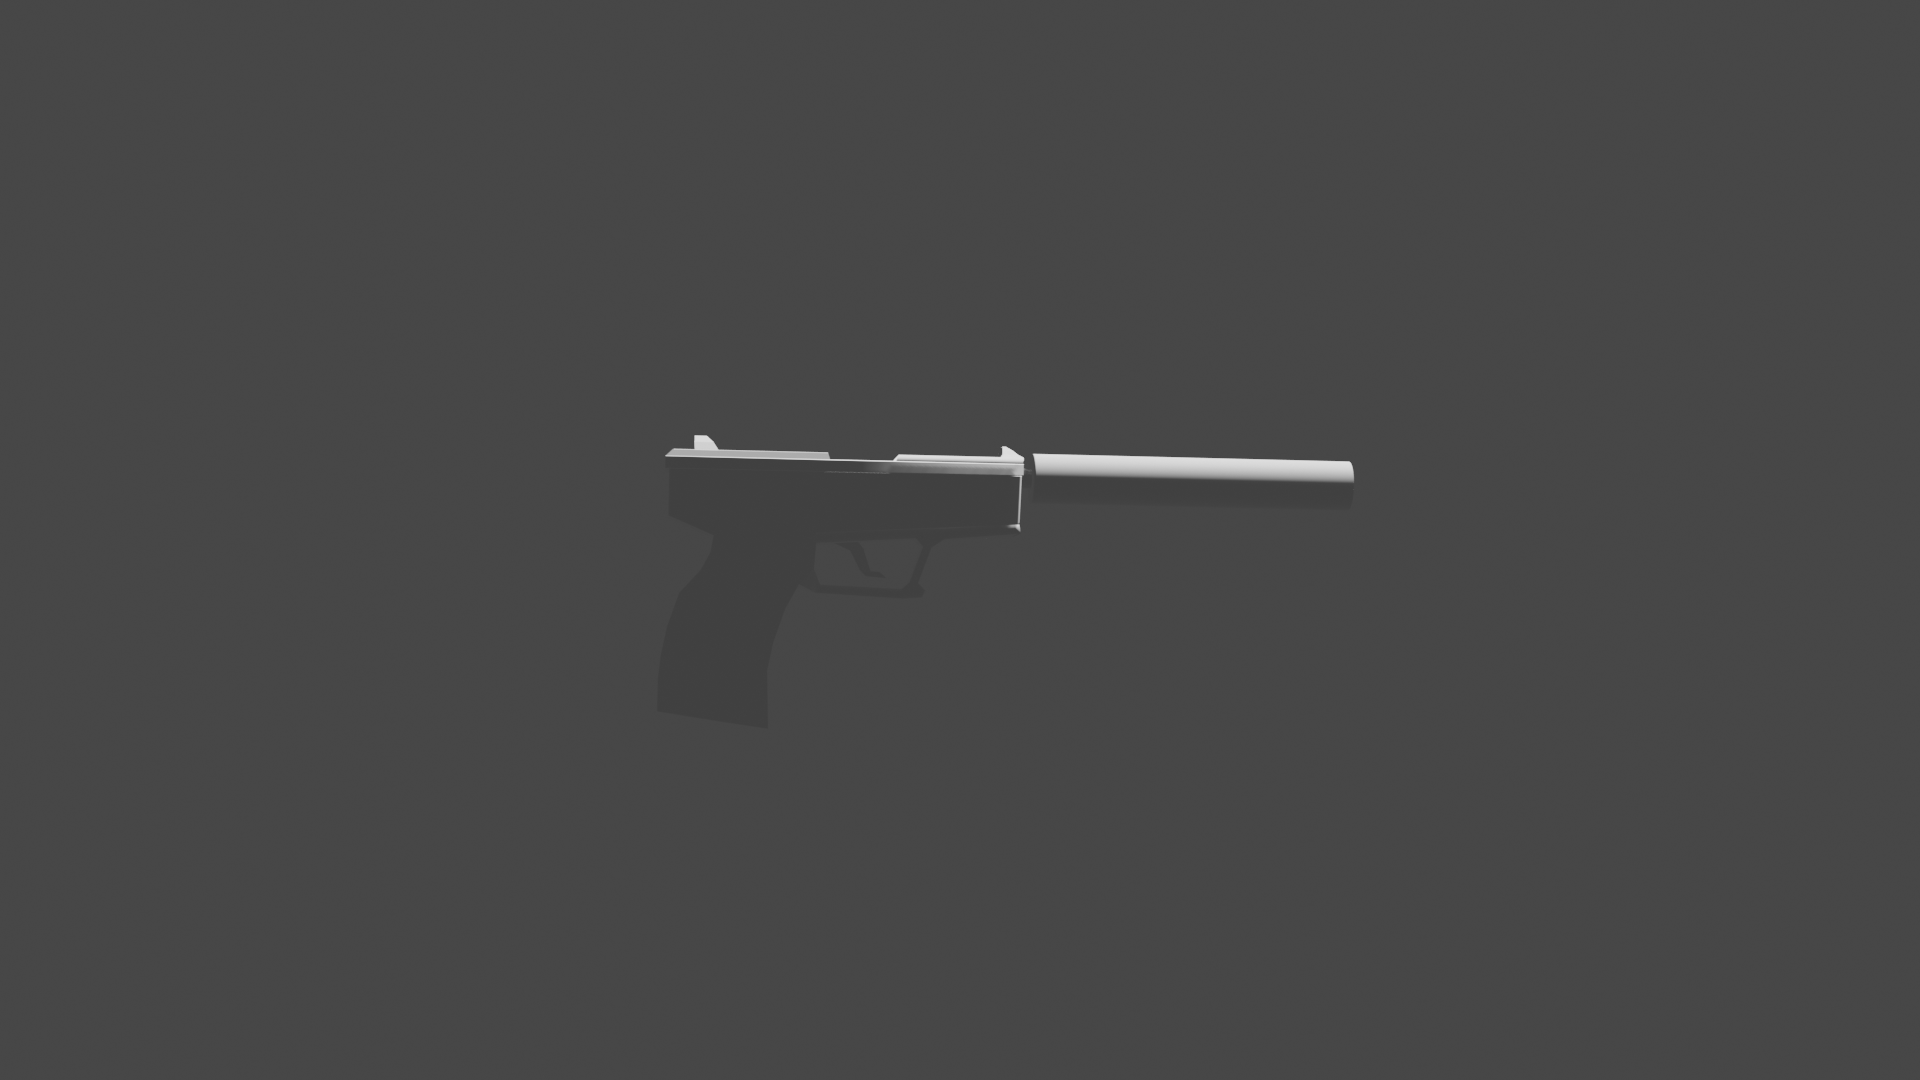
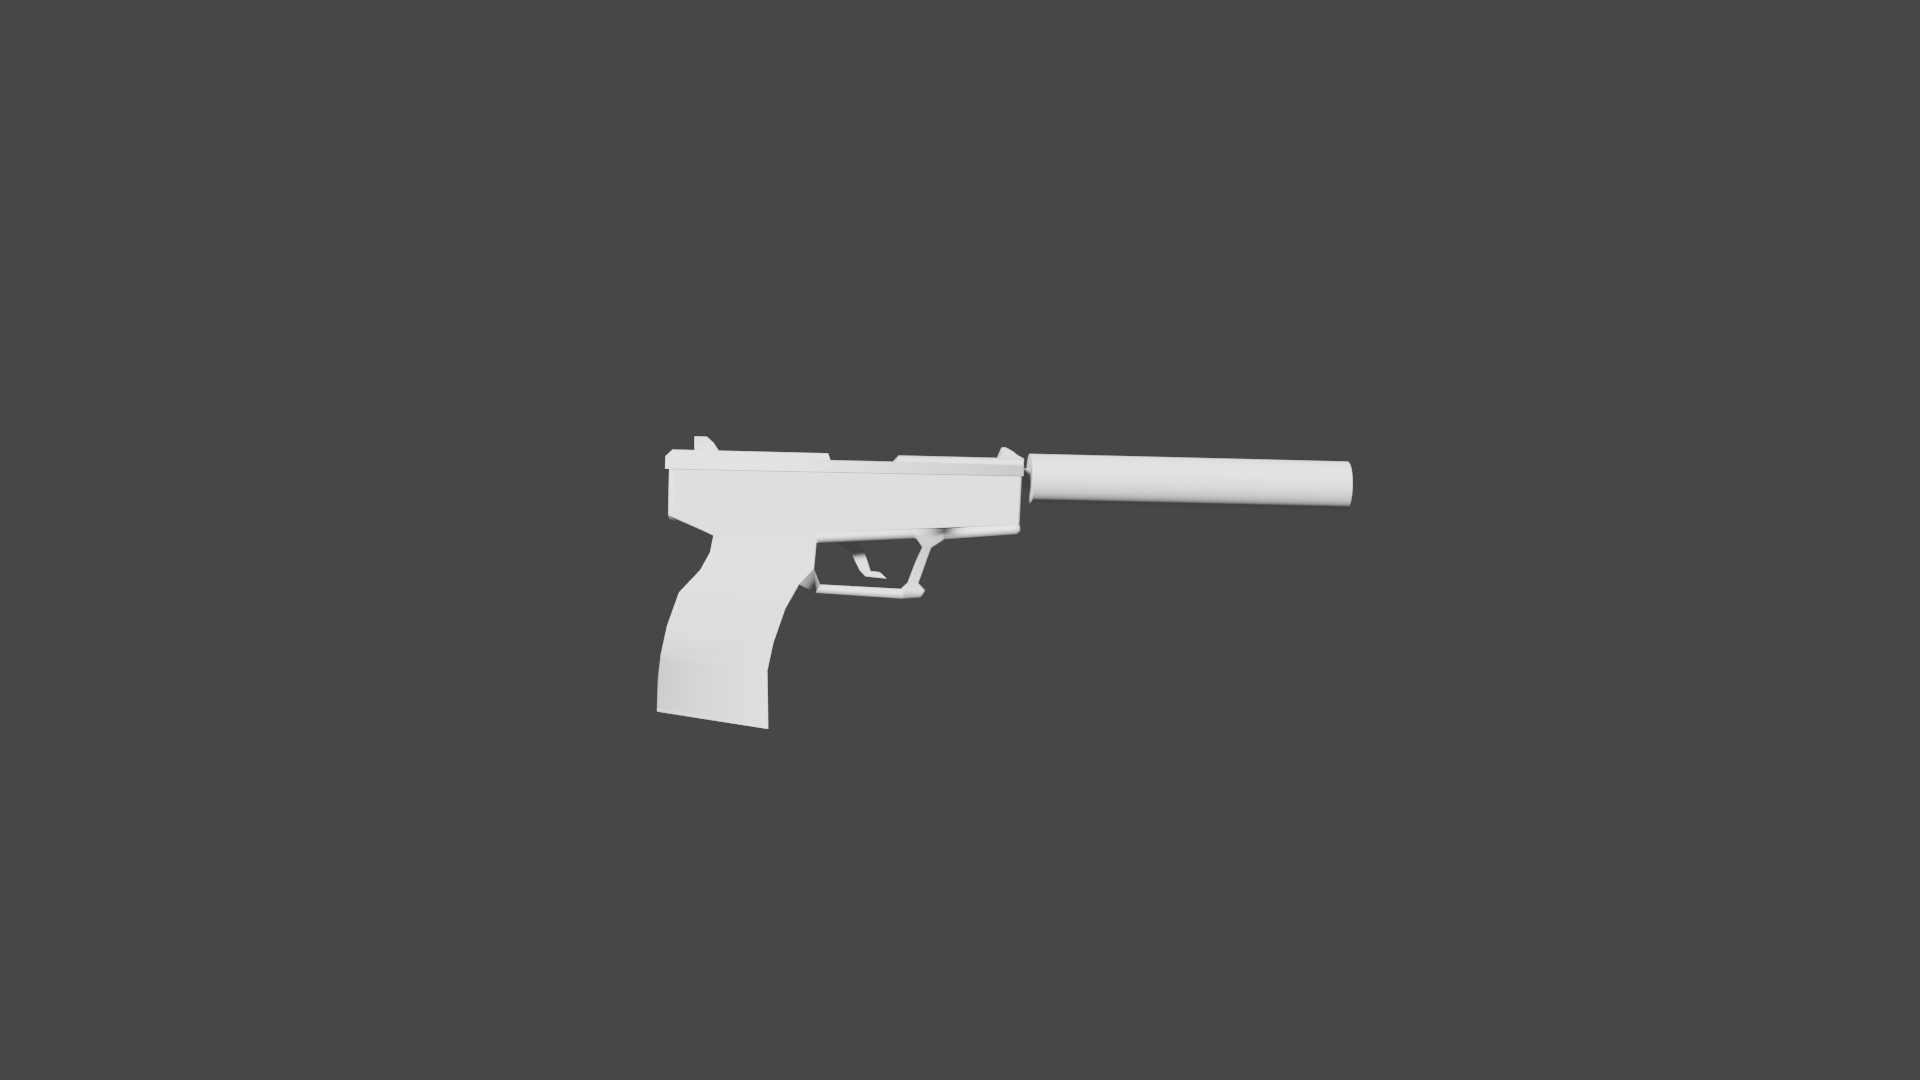
volcanoes

Changed region(s): [[0.3438, 0.3972, 0.7188, 0.6722]]

diff --git a/index.html b/index.html
@@ -1,24 +1,19 @@
 <!DOCTYPE html>
 <html>
 <head>
-<title> volcanoes </title>
+<title> Blender model showcase </title>
 <body>
-<h1>Volcanoes</h1>
-<h2>What is a volcano? </h2>
-<p> A volcano is a rupture in the crust  of a planetary-mass object,such as Earth,
-that allows hot lava, volcanic ash, and gases to escape from a magma chamber
-below the surface.
-</p>
-
-<h2> Why do volcanoes Occur? </h2>
-<p> Earth's volcanoes occur because its crust is broken into 17 major,
-rigid tectonic plates that float on a hotter, softer layer in its mantle.
-Therefore, on Earth, volcanoes are generally found where tectonic plates are
-diverging or converging, and most are found underwater. Volcanoes can also form
- where there is stretching and thinning of the crust's plates, e.g.,
- in the East African Rift and the Wells Gray-Clearwater volcanic field.
- </P>
-<a href="https://en.wikipedia.org/wiki/Volcano">volcano wikipedia</a>
 <p>
 </p>
-<img src = volcano.png style="width:750px;height:500px;">
+<h1> Blender USP model </h1>
+<p>
+ </P>
+<a href="https://en.wikipedia.org/wiki/Heckler_%26_Koch_USP">Based off the Koch USP with a silenced model</a>
+<p>
+</p>
+<img src = "usp complete.png" style="width:750px;height:500px;">
+
+<p>
+
+</p>
+<img src = "usp apart.png" style="width:750px;height:500px;">
